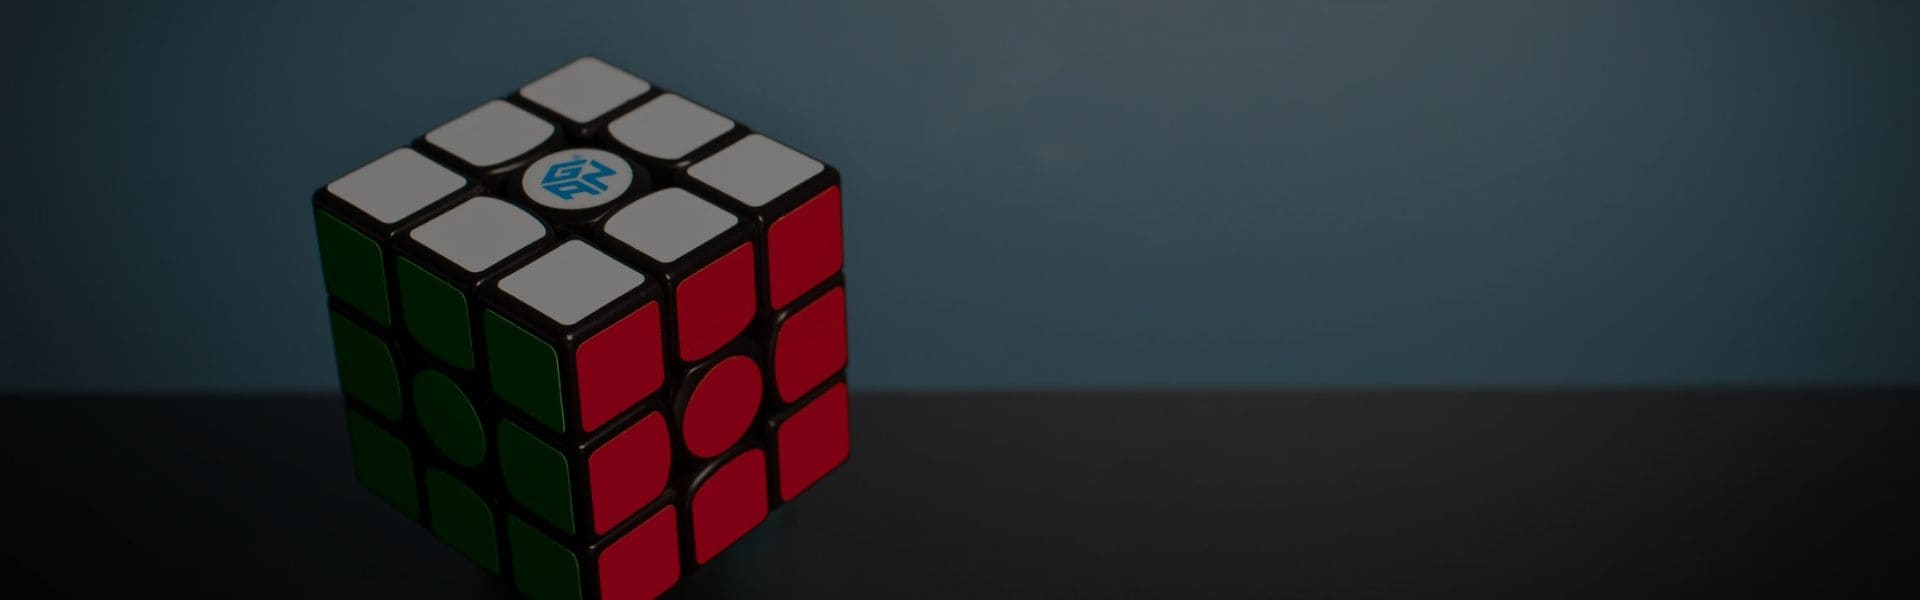
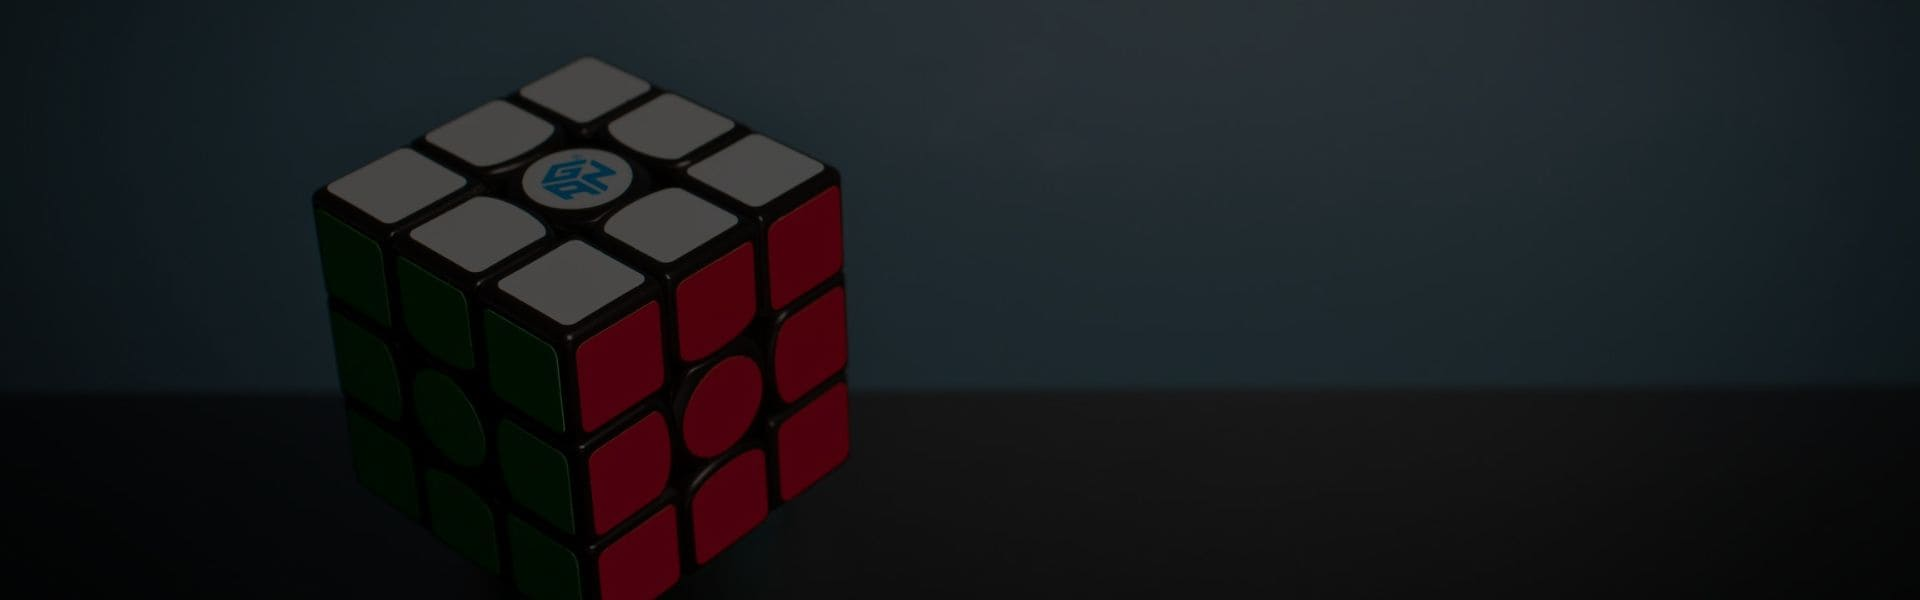
atualização dos posts

diff --git a/_posts/2022-06-22-desafio-bobstone.md b/_posts/2022-06-22-desafio-bobstone.md
@@ -20,31 +20,31 @@ Neste jogo seu oponente será o computador e abaixo está uma simulação. (Não
 
 ```
 De quem eh a vez? (1) Eu (0) Voce 1
-Digite as faces dos dados rolados por vc ->6 5
+Digite as faces dos dados rolados por vc -> 6 5
 Meus chutes sao 6 6
 Eu 0 Voce 0
 Digite as faces dos dados que rolei > 4 6
 Minhas faces sao 5 5
 Eu 0 Voce 2
-Digite as faces dos dados rolados por vc ->4 5
+Digite as faces dos dados rolados por vc -> 4 5
 Meus chutes sao 6 5
 Eu 1 Voce 2
 Digite as faces dos dados que rolei > 1 1
 Minhas faces sao 1 1
 Eu 1 Voce 5
-Digite as faces dos dados rolados por vc ->2 4
+Digite as faces dos dados rolados por vc -> 2 4
 Meus chutes sao 5 3
 Eu 2 Voce 5
 Digite as faces dos dados que rolei > 1 1
 Minhas faces sao 6 6
 Eu 2 Voce 6
-Digite as faces dos dados rolados por vc ->1 3
+Digite as faces dos dados rolados por vc -> 1 3
 Meus chutes sao 2 4
 Eu 3 Voce 6
 Digite as faces dos dados que rolei > 6 2
 Minhas faces sao 2 6
 Eu 3 Voce 9
-Digite as faces dos dados rolados por vc ->4 1
+Digite as faces dos dados rolados por vc -> 4 1
 Meus chutes sao 2 3
 Eu 5 Voce 9
 Digite as faces dos dados que rolei > 2 3
@@ -60,31 +60,31 @@ De quem eh a vez? (1) Eu (0) Voce 0
 Digite as faces dos dados que rolei > 1 2
 Minhas faces sao 4 3
 Eu 0 Voce 1
-Digite as faces dos dados rolados por vc ->6 1
+Digite as faces dos dados rolados por vc -> 6 1
 Meus chutes sao 1 6
 Eu 3 Voce 1
 Digite as faces dos dados que rolei > 2 2
 Minhas faces sao 1 1
 Eu 3 Voce 2
-Digite as faces dos dados rolados por vc ->3 4
+Digite as faces dos dados rolados por vc -> 3 4
 Meus chutes sao 5 2
 Eu 5 Voce 2
 Digite as faces dos dados que rolei > 1 4
 Minhas faces sao 2 5
 Eu 5 Voce 3
-Digite as faces dos dados rolados por vc ->1 3
+Digite as faces dos dados rolados por vc -> 1 3
 Meus chutes sao 2 2
 Eu 7 Voce 3
 Digite as faces dos dados que rolei > 1 5
 Minhas faces sao 5 1
 Eu 7 Voce 6
-Digite as faces dos dados rolados por vc ->6 4
+Digite as faces dos dados rolados por vc -> 6 4
 Meus chutes sao 6 4
 Eu 10 Voce 6
 Digite as faces dos dados que rolei > 2 4
 Minhas faces sao 6 2
 Eu 10 Voce 7
-Digite as faces dos dados rolados por vc ->5 6
+Digite as faces dos dados rolados por vc -> 5 6
 Meus chutes sao 5 6
 Eu 13 Voce 7
 Eu venci! Yupiiii

diff --git a/_posts/2022-06-23-desafio-defuse.md b/_posts/2022-06-23-desafio-defuse.md
@@ -16,8 +16,7 @@ Por sorte, você conta com um detector de bombas, cujo sinal aumenta, quanto mai
 Voce esta em um predio governamental com 1.000.000 de quartos. 
 O predio tem 100 quartos de largura(0-99), 100 quartos
 de comprimento (0-99) e 100 quartos de altura(0-99) e vc esta na porta(0,0,0)
-Existe uma bomba num dos quartos, 
-e vc tem um detector de bombas cujo sinal aumenta
+Existe uma bomba num dos quartos, e vc tem um detector de bombas cujo sinal aumenta
 a medida que voce se aproxima da bomba
 Voce tem 200s (20 tentativas) para desarmar a bomba.
 Sinal           Larg    comp    Alt
@@ -28,8 +27,7 @@ Confesse vamos.
 Voce esta em um predio governamental com 1.000.000 de quartos. 
 O predio tem 100 quartos de largura(0-99), 100 quartos
 de comprimento (0-99) e 100 quartos de altura(0-99) e vc esta na porta(0,0,0)
-Existe uma bomba num dos quartos, 
-e vc tem um detector de bombas cujo sinal aumenta
+Existe uma bomba num dos quartos, e vc tem um detector de bombas cujo sinal aumenta
 a medida que voce se aproxima da bomba
 Voce tem 200s (20 tentativas) para desarmar a bomba.
 Sinal           Larg    comp    Alt
@@ -45,8 +43,7 @@ Outro exemplo:
 Voce esta em um predio governamental com 1.000.000 de quartos. 
 O predio tem 100 quartos de largura(0-99), 100 quartos
 de comprimento (0-99) e 100 quartos de altura(0-99) e vc esta na porta(0,0,0)
-Existe uma bomba num dos quartos, 
-e vc tem um detector de bombas cujo sinal aumenta
+Existe uma bomba num dos quartos, e vc tem um detector de bombas cujo sinal aumenta
 a medida que voce se aproxima da bomba
 Voce tem 200s (20 tentativas) para desarmar a bomba.
 Sinal           Larg    comp    Alt

diff --git a/_posts/2022-06-19-desafio-armadilha.md b/_posts/2022-06-19-desafio-armadilha.md
@@ -8,9 +8,7 @@ tags: [desafio, programação, jogos]
 
 Em **ARMADILHA** o computador gera um número entre 1 e 100 e o jogador tentará prender o número do oponente entre dois números. O computador irá mostrar uma das mensagens abaixo:
 
-> "Meu numero esta entre os seus"
-ou
-"Meu numero NAO esta entre os seus"
+> "Meu numero esta entre os seus" ou "Meu numero NAO esta entre os seus"
 
 dependendo se o número gerado estiver ou não entre os valores colocados pelo jogador. O jogo acabará quando o jogador aprisionar completamente o número gerado pelo computador. Por exemplo:
 

diff --git a/_posts/2022-06-20-desafio-estrelas.md b/_posts/2022-06-20-desafio-estrelas.md
@@ -61,5 +61,4 @@ void main() {
 
 Aproveite que você já sabe como acionar o beep no computador e faça um carnaval sonoro quando o jogo terminar.
 
-
 Um grande abraço e até o próximo post!
